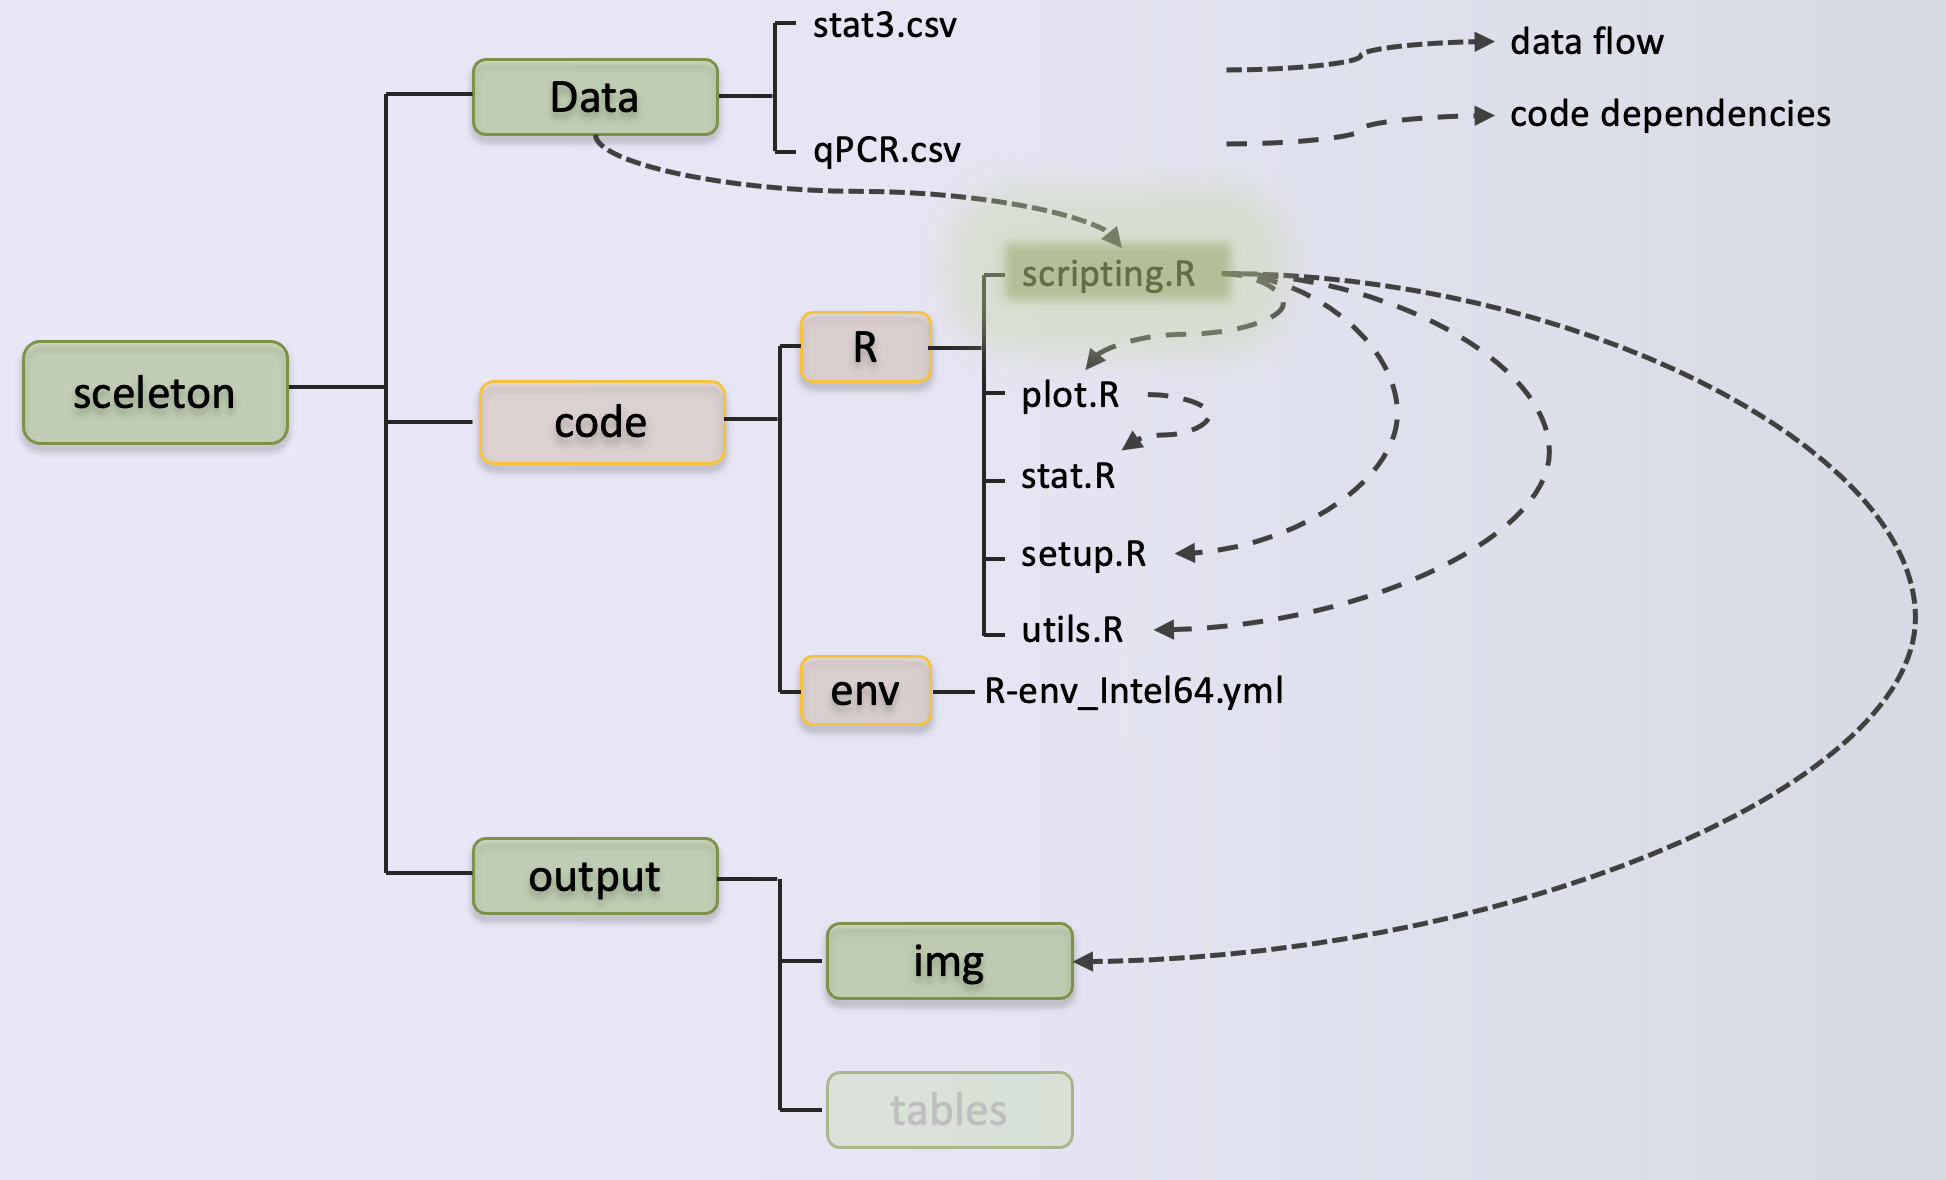
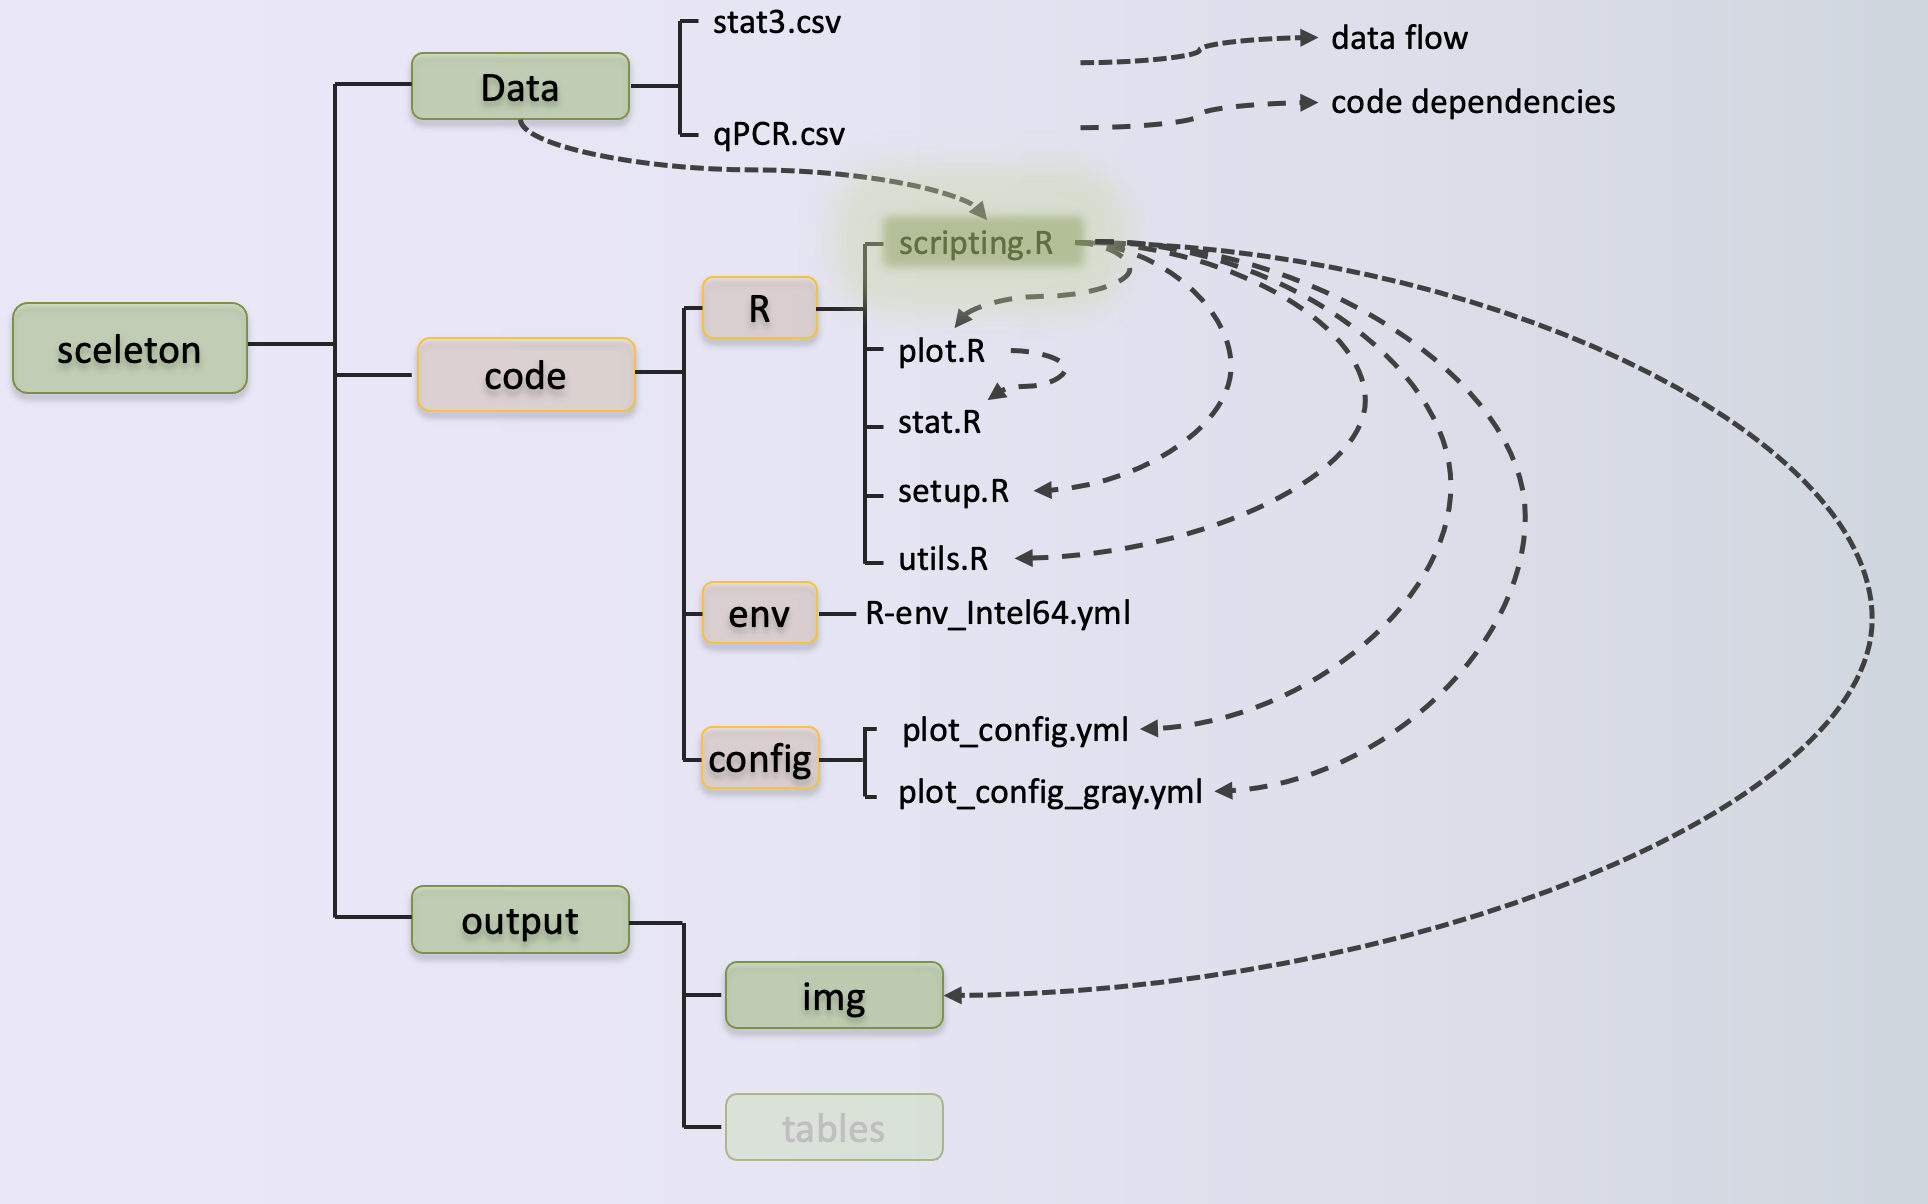
add py figure to README

diff --git a/README.md b/README.md
@@ -18,7 +18,7 @@
             * runs the two "core" functions" supplying tool-specific keyword-arguments
     * possible organisation of data and code
     * most importantly, COLORED OUTPUT!!!
-
+![Python project structure](info/py_folder_mid.png?raw=true)
 + ### The R project is a simple plot that displays two data types in a combined plot
    * expression of STAT3 on T cell subpopulations upon stimulation vs qPCR-expression of CXCR3-isoforms (if you need to know)
 + ####  just run the code/R/scripting.R and follow along..
@@ -33,7 +33,9 @@
             * runs the combined plot by passing 
     * possible organisation of data and code
 
-![R project structure](info/R_folder_small.png?raw=true)
+![R project structure](info/R_folder_mid.png?raw=true)
+
+   + everything starts from scripting.R and code, data and output are refered to from there
 
 ## setup
 * clone the repository into \<your basefolder\>, rename to <projectfolder> and move to into the folder:
